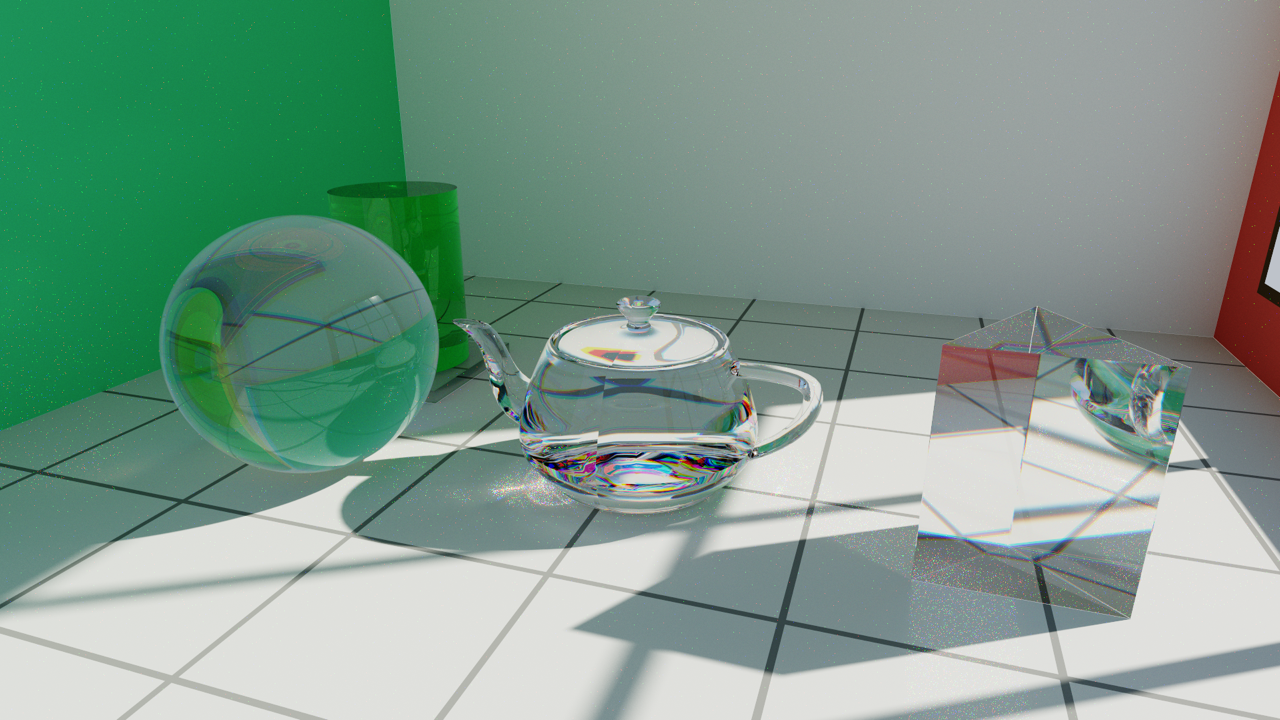
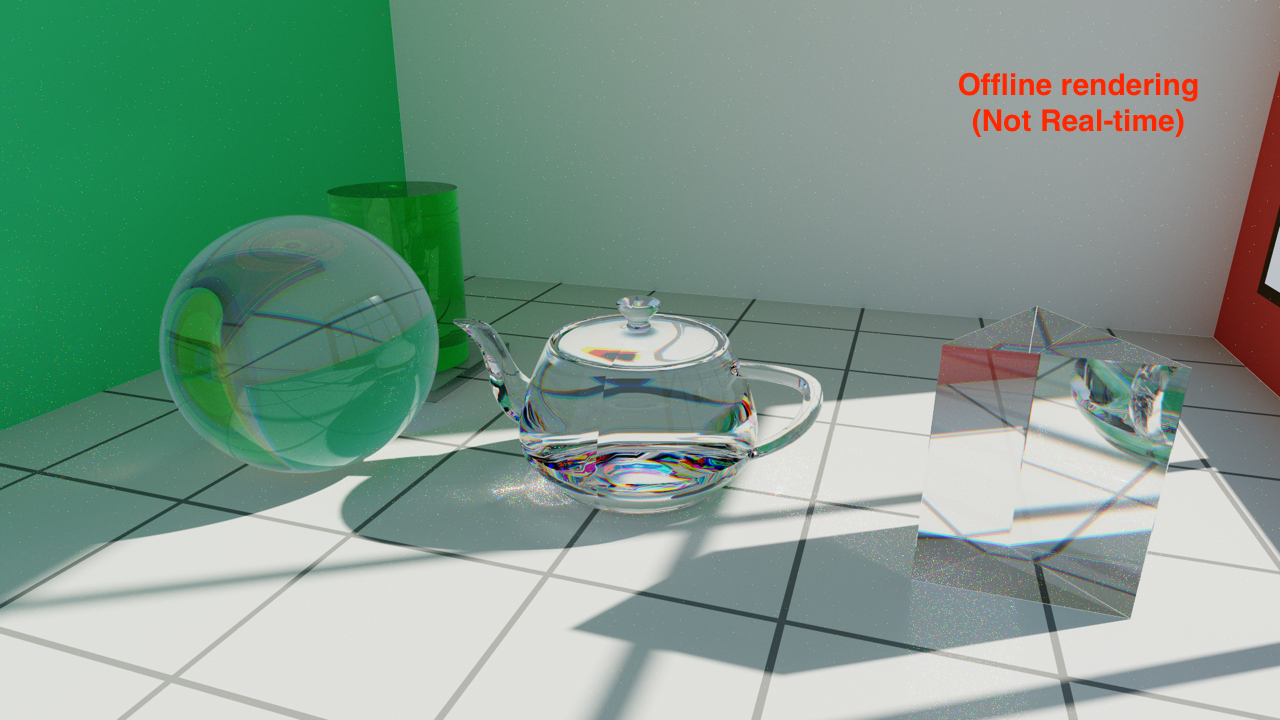
feat: implement multi-bounce glass internal refraction and shadow occlusion

Changed region(s): [[0.75, 0.0917, 0.9375, 0.1833]]

diff --git a/Metal/src/main.mm b/Metal/src/main.mm
@@ -67,7 +67,7 @@ struct GlassUniforms {
     uint32_t numTeapotNodes;
     uint32_t numTeapotTris;
     uint32_t ablationMask;
-    uint32_t pad;
+    uint32_t glassBounces;
 };
 
 // Mirrors PathTraceParams in RCGlassShaders.metal.
@@ -208,6 +208,9 @@ struct RendererState {
     uint32_t ptSeedOffset = 0;
     uint32_t ptOpticsMode = 1;   // which mode's optics the reference should model
     uint32_t ablationMask = kAblAll;
+    // How many internal reflections a refracted ray may make inside a dielectric
+    // before the remaining energy is dropped. 1 is the old single-pair behaviour.
+    uint32_t glassBounces = 4;
 
     uint32_t brightnessMode = 2; // 6 modes: 0..5 (0.8x, 1.8x, 2.8x, 4.2x, 6.5x, 10.0x)
     uint32_t lightColorMode = 0; // 3 modes: 0 (Normal), 1 (Smooth RGB), 2 (Stepped RGB)
@@ -554,7 +557,7 @@ void renderFrame(
     uniforms.numTeapotNodes = state.numTeapotNodes;
     uniforms.numTeapotTris  = state.numTeapotTris;
     uniforms.ablationMask = state.ablationMask;
-    uniforms.pad = 0;
+    uniforms.glassBounces = state.glassBounces;
 
     id<MTLBuffer> uniformBuffer = state.uniformBuffer;
     memcpy(uniformBuffer.contents, &uniforms, sizeof(GlassUniforms));
@@ -855,7 +858,7 @@ static inline SystemMetrics querySystemMetrics(id<MTLDevice> device) {
         @"VRAM:        %4.0f MB alloc  / %4.0f MB max\n"
         @"RAM:         %4.0f MB app    | %4.1f / %4.1f GB sys\n"
         @"Mode:        %s\n"
-        @"Roughness:   %.2f\n"
+        @"Roughness:   %.2f  (glass bounces: %u)\n"
         @"Brightness:  Mode %u/6 (%.1fx)\n"
         @"Light Color: %s%@",
         state.currentWidth, state.currentHeight,
@@ -865,7 +868,7 @@ static inline SystemMetrics querySystemMetrics(id<MTLDevice> device) {
         state.fps, frameTimeMs,
         m.appVramMB, m.totalVramMB,
         m.procRamMB, m.sysUsedRamGB, m.sysTotalRamGB,
-        modeStr, state.glassRoughness,
+        modeStr, state.glassRoughness, state.glassBounces,
         (state.brightnessMode % 6) + 1, curBrightness,
         colorStr,
         (state.renderMode == 4)
@@ -1101,6 +1104,14 @@ static inline SystemMetrics querySystemMetrics(id<MTLDevice> device) {
             gRenderer.renderMode = 0;
             std::cout << "[Mode] Mode 0: Whitted RT Baseline\n";
             break;
+        case '[':
+            gRenderer.glassBounces = std::max(1u, gRenderer.glassBounces - 1);
+            std::cout << "[Glass] Internal reflection budget: " << gRenderer.glassBounces << "\n";
+            break;
+        case ']':
+            gRenderer.glassBounces = std::min(8u, gRenderer.glassBounces + 1);
+            std::cout << "[Glass] Internal reflection budget: " << gRenderer.glassBounces << "\n";
+            break;
         case 'r':
         case 'R':
             gRenderer.camera = OrbitCamera();
@@ -1215,6 +1226,7 @@ static inline SystemMetrics querySystemMetrics(id<MTLDevice> device) {
     std::cout << "    [0]                 : Whitted Ray Tracing Baseline\n";
     std::cout << "    [4]                 : Path Traced Reference (progressive ground truth)\n";
     std::cout << "    [+/-]               : Adjust Roughness\n";
+    std::cout << "    [ [ / ] ]           : Internal reflection budget inside glass (1..8)\n";
     std::cout << "    [B]                 : Cycle Light Brightness (6 Modes: 0.8x -> 10.0x)\n";
     std::cout << "    [C]                 : Cycle Light Color (Normal -> Smooth RGB -> Step RGB)\n";
     std::cout << "    [O]                 : Toggle Hardware & Performance Stats Overlay\n";
@@ -2067,6 +2079,8 @@ int main(int argc, const char *argv[]) {
                     cmpWidth = uint32_t(std::max(64, atoi(res.substr(0, x).c_str())));
                     cmpHeight = uint32_t(std::max(64, atoi(res.substr(x + 1).c_str())));
                 }
+            } else if (arg == "--glass-bounces" && i + 1 < argc) {
+                gRenderer.glassBounces = uint32_t(std::min(8, std::max(1, atoi(argv[++i]))));
             } else if (arg == "--depth" && i + 1 < argc) {
                 gRenderer.ptMaxDepth = uint32_t(std::max(1, atoi(argv[++i])));
             } else if (arg == "--sun-radius" && i + 1 < argc) {

diff --git a/README.md b/README.md
@@ -48,7 +48,7 @@ The frame is five compute passes:
 2. **Atlas filter** - 7x7 Gaussian over each surface, so probe noise does not show up as blotches on the walls.
 3. **Caustic splatting** - one photon per thread, refracted through a glass object and projected onto the floor. Because photons land wherever they land, the accumulation buffer is integer and the splat is a bilinear `atomic_fetch_add` into fixed point.
 4. **Caustic filter** - reads the integer buffer back into a float texture, with an extra roughness-driven blur in frosted mode.
-5. **Shading** - one primary ray per pixel. Glass gets a Fresnel-weighted split between one reflection ray and one refraction ray traced per channel (R/G/B use different IOR, which is what produces the coloured fringes).
+5. **Shading** - one primary ray per pixel. Glass gets a Fresnel-weighted split between a reflection ray and an interior walk traced per channel (R/G/B use different IOR, which is what produces the coloured fringes). The interior walk follows up to four internal reflections: at each exit interface the Fresnel-transmitted part leaves and is shaded, the reflected part stays inside, and a failed refraction is total internal reflection that keeps everything inside. Glass occludes the sun's shadow ray, so the beam it deflects returns only through the caustic splat.
 
 A sixth kernel, mode 4, is a brute-force path tracer over the same scene. It is not part of the frame - it is the ground truth the five passes above are measured against, and the measurements are in [Validation against a path traced reference](#validation-against-a-path-traced-reference).
 
@@ -209,6 +209,7 @@ cd OpenGL && ./build.sh && ./rc_glass_gl
 | **0** | Switch to **Mode 0** (Whitted Ray Tracing Baseline) |
 | **4** | Switch to **Mode 4** (Path Traced Reference - progressive ground truth) |
 | **+ / -** | Increase / decrease glass surface roughness |
+| **[ / ]** | Internal reflection budget inside glass (1..8, default 4) |
 | **B** | Cycle sunlight brightness (6 modes: 0.8x -> 10.0x) |
 | **C** | Cycle light color (Normal -> Smooth RGB rainbow -> Stepped sharp RGB) |
 | **O** | Toggle hardware & performance stats overlay (GPU, load, VRAM, RAM, FPS) |
@@ -262,6 +263,7 @@ Three offline studies compare the real-time modes against the mode 4 path tracer
 | `--res <WxH>` | Resolution for the study. |
 | `--mode <n>` | Which mode's optics the equal-time and ablation studies use (default 1). |
 | `--modes <a,b,c>` | Which modes `--compare` walks (default `1,2,3,0`). |
+| `--glass-bounces <n>` | Internal reflection budget inside glass, 1 to 8 (default 4). `1` reproduces the old single refraction pair. |
 | `--depth <n>` | Path tracer maximum depth (default 12). |
 | `--sun-radius <deg>` | Angular radius of the sun disc in the reference (default 0.5). |
 | `--pt-clamp <v>` | Firefly clamp on a single path contribution. `0` (default) leaves the reference unbiased. |
